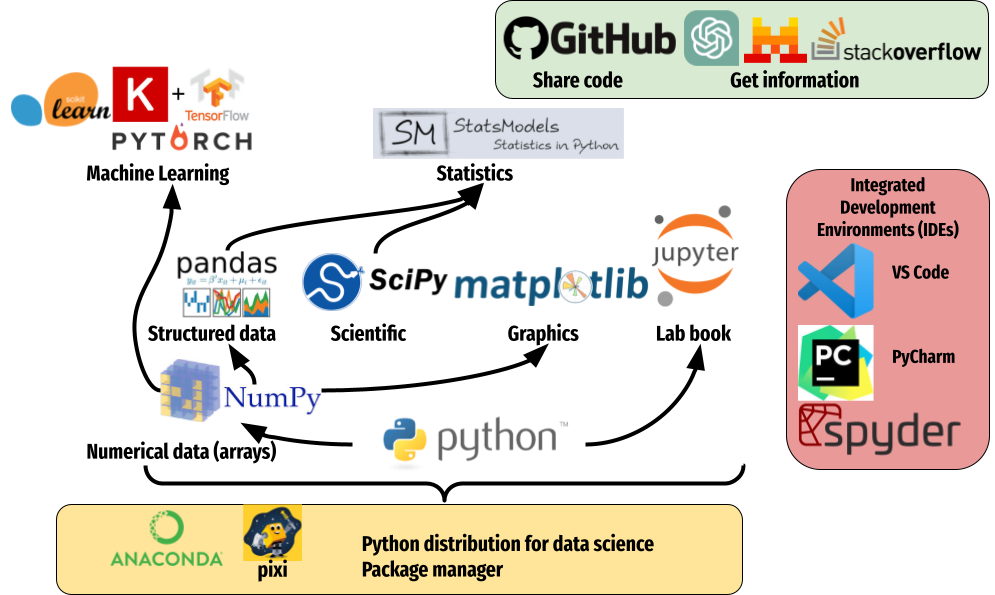
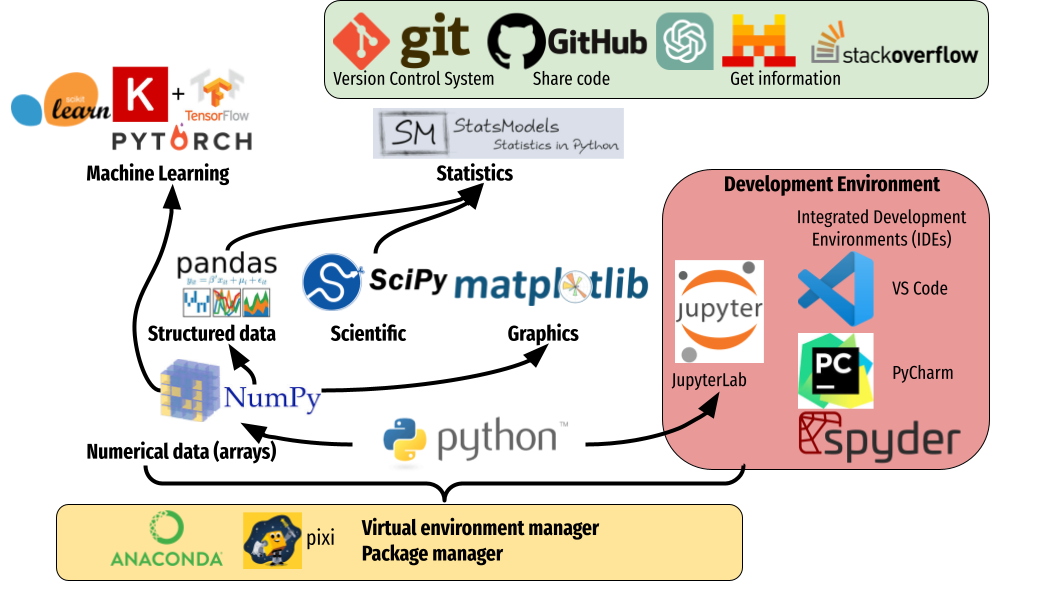
V0.8 Cosmetic + improve python ecosystem figure

diff --git a/introduction/introduction_python_for_datascience.rst b/introduction/introduction_python_for_datascience.rst
@@ -13,7 +13,7 @@ Python main features
 - Efficient data manipulation is obtained using libraries (`Numpy, Scipy, Pytroch`) executed in compiled code.
 
 .. image:: images/interpreted_vs_compiled.png
-   :scale: 100
+   :scale: 80
    :align: center
    :alt: Python is interpreted
 
@@ -55,7 +55,7 @@ Overview of Python ecosystem for data-science
 .. RST https://thomas-cokelaer.info/tutorials/sphinx/rest_syntax.html
 
 .. image:: images/python_ecosystem.png
-   :scale: 100
+   :scale: 80
    :align: center
 
 
